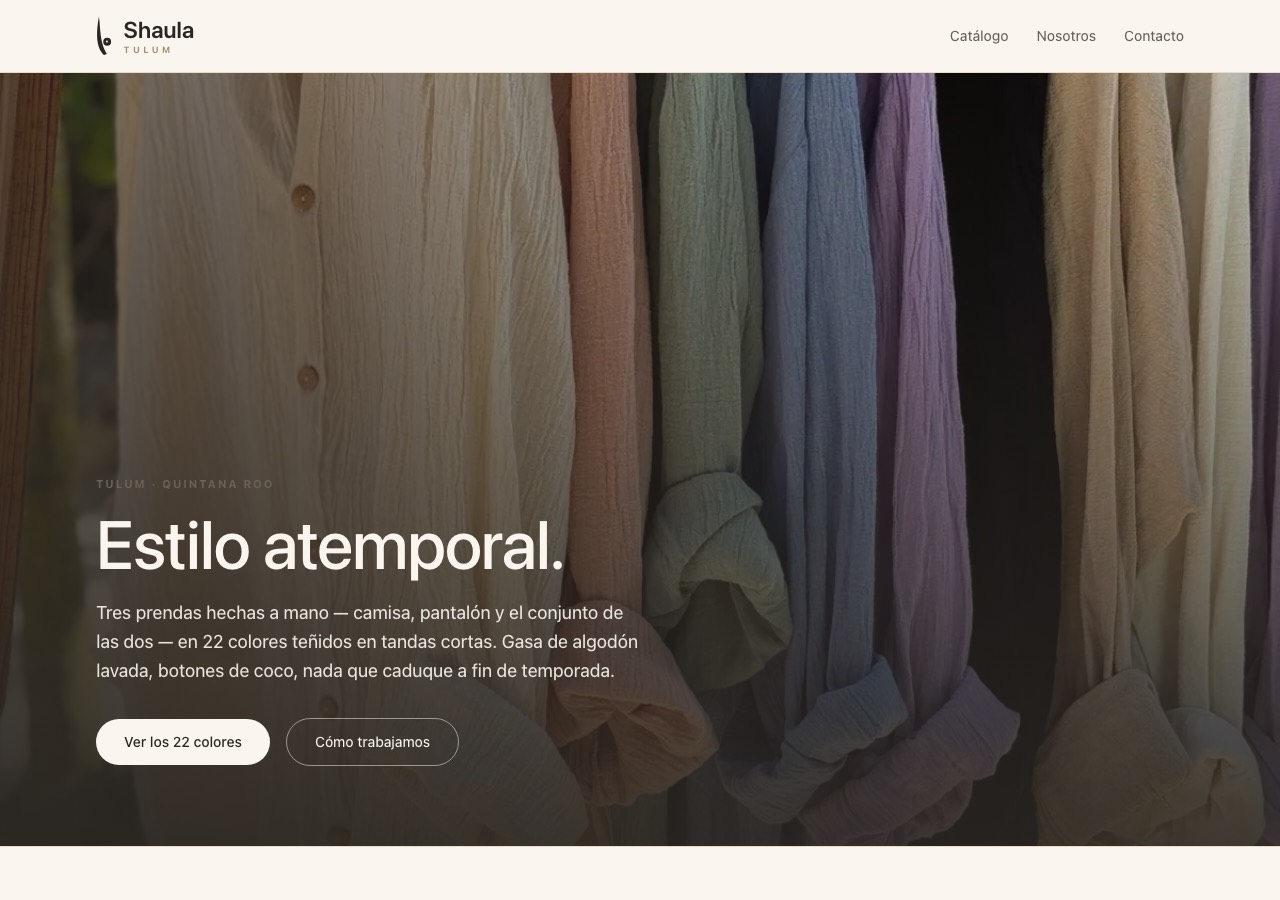
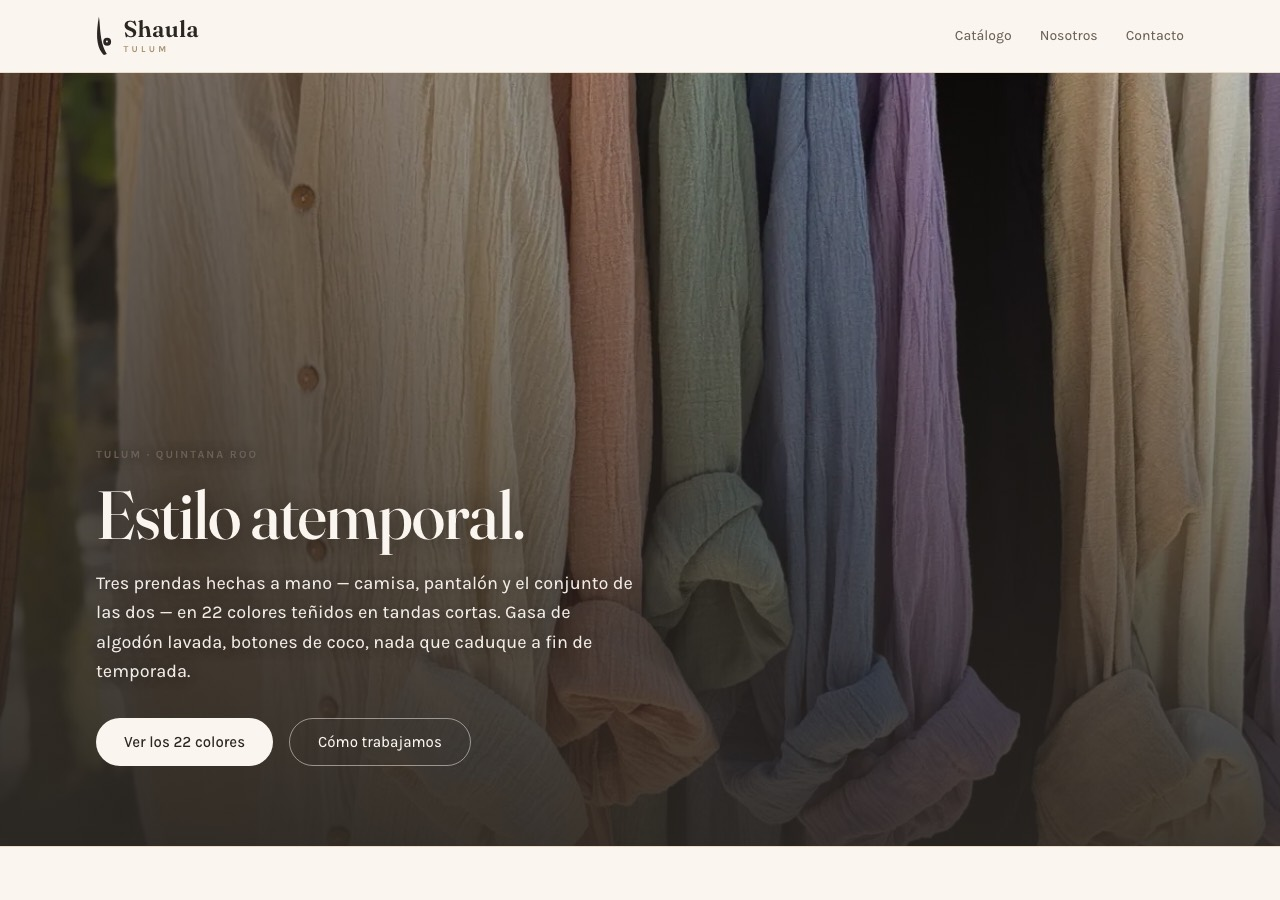
Arregla la tipografía, que nunca se estaba cargando
Las variables de next/font se aplicaban en <body>, pero el bloque @theme
de globals.css arma --font-display a partir de var(--font-fraunces), y
@theme declara sus variables en :root, que es <html>. Ahí --font-fraunces
todavía no existe: --font-display queda inválida y font-family cae al
stack del sistema.

El resultado era que Fraunces y Karla no se usaban en ningún navegador
—ni Chrome— sin un solo error en consola ni un 404. Un fallo silencioso:
el sitio se veía "parecido pero peor". Se detectó porque en Safari, con
la fuente de sistema (más ancha), la navegación del header se cortaba.

- Las clases de next/font pasan a <html>.
- El header no se rompe ni a 320px: la navegación se aprieta y, por
  debajo de 360, el nombre escrito de la marca se esconde y queda la
  marca sola. Verificado en WebKit y Chromium a 320/360/375/390/430.
- overflow-x: clip en html como red de seguridad (clip y no hidden:
  hidden convierte al elemento en contenedor de scroll y rompe el
  header pegajoso).
- Los textos sobre foto del hero llevan sombra: en versalitas y sobre
  ropa clara el velo no alcanzaba.
- Capturas del README regeneradas: las anteriores mostraban el sitio con
  la fuente equivocada.

diff --git a/src/app/page.tsx b/src/app/page.tsx
@@ -42,11 +42,14 @@ export default async function Home() {
         <div className="absolute inset-0 -z-10 bg-gradient-to-r from-tinta/60 via-tinta/20 to-transparent" aria-hidden />
 
         <div className="mx-auto w-full max-w-6xl px-5 pb-14 pt-28 sm:px-8 sm:pb-20">
-          <p className="eyebrow text-cal/85">Tulum · Quintana Roo</p>
-          <h1 className="display-xl mt-4 max-w-[13ch] text-[42px] font-medium leading-[1.02] text-cal sm:text-[68px]">
+          {/* Sombra en la volanta: en versalitas y sobre ropa clara, el velo del
+              hero no alcanza. La sombra la despega de la foto sin tener que
+              oscurecer la imagen entera. */}
+          <p className="eyebrow text-cal [text-shadow:0_1px_12px_rgb(0_0_0/0.55)]">Tulum · Quintana Roo</p>
+          <h1 className="display-xl mt-4 max-w-[13ch] text-[42px] font-medium leading-[1.02] text-cal [text-shadow:0_2px_24px_rgb(0_0_0/0.35)] sm:text-[68px]">
             Estilo atemporal.
           </h1>
-          <p className="mt-5 max-w-[34rem] text-[16px] leading-relaxed text-cal/90 sm:text-[18px]">
+          <p className="mt-5 max-w-[34rem] text-[16px] leading-relaxed text-cal/95 [text-shadow:0_1px_14px_rgb(0_0_0/0.4)] sm:text-[18px]">
             Tres prendas hechas a mano — camisa, pantalón y el conjunto de las dos — en{" "}
             {colores.length} colores teñidos en tandas cortas. Gasa de algodón lavada, botones
             de coco, nada que caduque a fin de temporada.

diff --git a/src/components/Header.tsx b/src/components/Header.tsx
@@ -10,19 +10,19 @@ const NAV = [
 export default function Header() {
   return (
     <header className="sticky top-0 z-40 border-b border-arena bg-cal/92 backdrop-blur-sm">
-      <div className="mx-auto flex h-[64px] max-w-6xl items-center justify-between gap-4 px-5 sm:h-[72px] sm:px-8">
+      <div className="mx-auto flex h-[64px] max-w-6xl items-center justify-between gap-3 px-5 sm:h-[72px] sm:gap-4 sm:px-8">
         <Link href="/" aria-label="Shaula Tulum, inicio" className="-my-3 flex items-center py-3">
           <Logo />
         </Link>
 
         {/* -my-2 py-2 en cada enlace: el área tocable llega a 44px sin
             mover el renglón ni cambiar el aspecto del header. */}
-        <nav className="flex items-center gap-5 sm:gap-7">
+        <nav className="flex shrink-0 items-center gap-4 sm:gap-7">
           {NAV.map((n) => (
             <Link
               key={n.href}
               href={n.href}
-              className="relative -my-3 py-3 text-[14px] text-sombra transition-colors hover:text-tinta
+              className="relative -my-3 whitespace-nowrap py-3 text-[13.5px] text-sombra sm:text-[14px] transition-colors hover:text-tinta
                          after:absolute after:bottom-2 after:left-0 after:h-px after:w-0 after:bg-madera
                          after:transition-all hover:after:w-full"
             >

diff --git a/src/app/layout.tsx b/src/app/layout.tsx
@@ -34,8 +34,16 @@ export const metadata: Metadata = {
 
 export default function RootLayout({ children }: { children: React.ReactNode }) {
   return (
-    <html lang="es">
-      <body className={`${fraunces.variable} ${karla.variable} flex min-h-screen flex-col`}>
+    /* Las variables de next/font van en <html>, NO en <body>.
+
+       El bloque @theme de globals.css arma --font-display a partir de
+       var(--font-fraunces), y @theme declara sus variables en :root, que es
+       <html>. Con las clases de next/font en <body>, --font-fraunces no
+       existe todavía en :root: --font-display queda inválida, y toda la
+       tipografía de la casa cae a la fuente del sistema — en todos los
+       navegadores, sin un solo error en consola. */
+    <html lang="es" className={`${fraunces.variable} ${karla.variable}`}>
+      <body className="flex min-h-screen flex-col">
         <Header />
         <main className="flex-1">{children}</main>
         <Footer />

diff --git a/src/app/nosotros/page.tsx b/src/app/nosotros/page.tsx
@@ -38,8 +38,8 @@ export default function NosotrosPage() {
         />
         <div className="absolute inset-0 -z-10 bg-gradient-to-t from-tinta/85 via-tinta/40 to-tinta/10" aria-hidden />
         <div className="mx-auto w-full max-w-6xl px-5 pb-12 pt-24 sm:px-8 sm:pb-16">
-          <p className="eyebrow text-arena">Quiénes somos</p>
-          <h1 className="display-xl mt-4 max-w-[16ch] text-[36px] font-medium leading-[1.04] text-cal sm:text-[56px]">
+          <p className="eyebrow text-cal [text-shadow:0_1px_12px_rgb(0_0_0/0.55)]">Quiénes somos</p>
+          <h1 className="display-xl mt-4 max-w-[16ch] text-[36px] font-medium leading-[1.04] text-cal [text-shadow:0_2px_24px_rgb(0_0_0/0.35)] sm:text-[56px]">
             Una casa chica, a propósito.
           </h1>
         </div>

diff --git a/src/components/Logo.tsx b/src/components/Logo.tsx
@@ -42,7 +42,10 @@ export default function Logo({
   return (
     <span className={`flex items-center gap-3 leading-none ${className}`}>
       <Marca className="h-9 w-auto shrink-0 text-tinta sm:h-10" />
-      <span className="flex flex-col leading-none">
+      {/* Por debajo de 360px de ancho —un iPhone chico, o uno normal con el
+          zoom de Safari al 125%— el nombre escrito se esconde y queda la
+          marca sola. Es preferible eso a que la navegación se corte. */}
+      <span className="flex flex-col leading-none max-[359px]:hidden">
         <span
           className="font-display text-[20px] font-semibold tracking-[0.01em] text-tinta sm:text-[23px]"
           style={{ fontVariationSettings: '"SOFT" 0, "WONK" 1, "opsz" 48' }}

diff --git a/src/app/globals.css b/src/app/globals.css
@@ -29,7 +29,15 @@
   --font-cuerpo:  var(--font-karla), ui-sans-serif, system-ui, sans-serif;
 }
 
-html { -webkit-text-size-adjust: 100%; }
+html {
+  -webkit-text-size-adjust: 100%;
+  /* Red de seguridad: si algún día un bloque se pasa de ancho, la página
+     no se mueve de costado. `clip` y no `hidden` a propósito: hidden
+     convierte al elemento en contenedor de scroll y rompe el header
+     pegajoso. Los tests siguen mirando scrollWidth, así que esto tapa el
+     síntoma para el visitante sin escondernos el problema. */
+  overflow-x: clip;
+}
 
 body {
   background: var(--color-cal);

diff --git a/README.md b/README.md
@@ -247,6 +247,16 @@ hay que reemplazarlo por el archivo real.
 **Tipografía.** *Fraunces* para títulos (serif con eje óptico variable, carácter
 artesanal) y *Karla* para texto.
 
+⚠ Las variables de `next/font` van en **`<html>`, no en `<body>`**
+(`src/app/layout.tsx`). El bloque `@theme` de `globals.css` arma
+`--font-display` a partir de `var(--font-fraunces)`, y `@theme` declara sus
+variables en `:root` — que es `<html>`. Con las clases de fuente en `<body>`,
+`--font-fraunces` no existe todavía en `:root`, `--font-display` queda inválida
+y **toda la tipografía cae a la fuente del sistema, en todos los navegadores,
+sin un solo error en consola ni un 404**. Es un fallo silencioso: se ve
+"parecido pero peor". Si alguien mueve esas clases de vuelta al `<body>`,
+vuelve a pasar.
+
 **Un solo mundo visual.** No hay modo oscuro a propósito: un catálogo de gasa
 cruda en negro traiciona el concepto. Por eso todos los colores se pintan
 explícitos y la página se ve igual con el sistema en claro o en oscuro.
